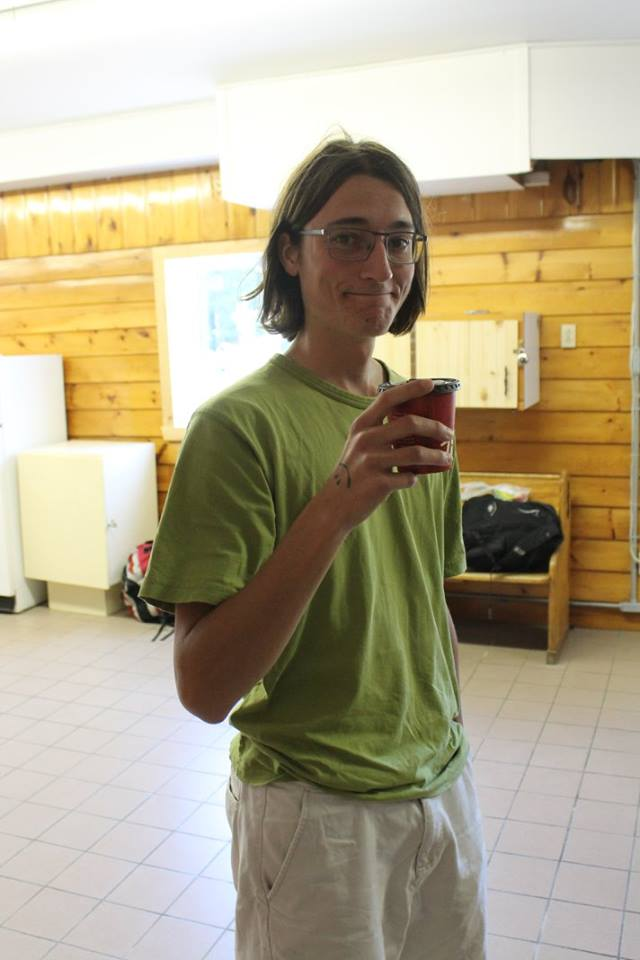
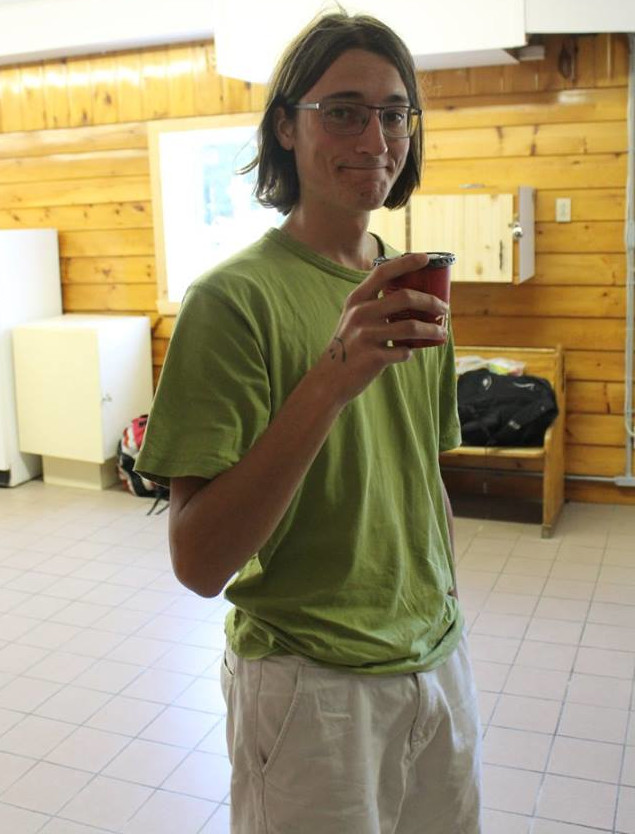
Ajout d'Une bordure pour la photo de présentation.

diff --git a/style.css b/style.css
@@ -10,8 +10,15 @@
 
 #PhotoDePresentation
 {
-	width: 250px;
+	width: 280px;
 	height: 380px;
+	border:5px #808080 solid;
+	border-radius:5px;
+}
+
+#CaptionPresentation
+{
+	text-align:center;
 }
 
 .TitreArticle
@@ -109,7 +116,7 @@ nav
 	min-height:200px;
 	/*background-color:#A0522D; Color brun*/
 	text-align: center;
-	background-color:#808080;;
+	background-color:#808080;
 }
 
 footer
@@ -121,7 +128,7 @@ footer
 	padding-top:0px;
 	padding-bottom:0px;
 	/*background-color:#A0522D; Color brun*/
-	background-color:#808080;;
+	background-color:#808080;
 	/*color:white;*/
 }
 

diff --git a/index.html b/index.html
@@ -25,7 +25,7 @@
 			<section>
 				<figure class="imageFlottanteRight">
 					<img src="images/Integration_Photo.jpg" alt="Photo de Moi" title="Moi avec un gobelet de thé du Tim Hortons." id="PhotoDePresentation"/>
-					<figcaption>Me, at the initiation day of the AMI, in 2016</figcaption>
+					<figcaption id="CaptionPresentation">Me, at the initation day of the AMI, in 2016</figcaption>
 				</figure>
 
 				<h1>About me</h1>
